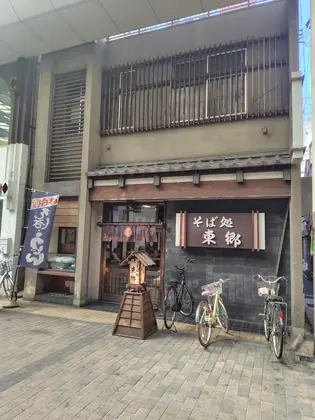
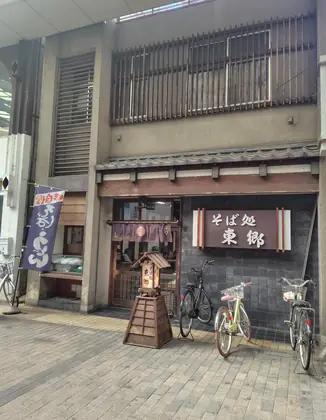
前橋ぶらり旅：写真の一言を本人の直した文に差し替える（No.044 のナンバーのぼかしも反映）

diff --git a/tabi/maebashi/index.html b/tabi/maebashi/index.html
@@ -907,7 +907,7 @@ details:nth-of-type(3n)   > summary::after{animation-delay:-2.7s}
   <div class="card" id="p2">
     <h4><span class="num">2</span>白井屋ホテル <span class="ruby">しろいやホテル</span> <span class="tier t1">● 公式で確認</span></h4>
     <p class="body">アーツ前橋から歩いて2分ほどのホテルです。ラウンジ（the LOUNGE）では、<b>芸術祭の期間のランチが「赤城牛カレーライス」か「白井屋バーガー」の2品</b>になっていて、事前の予約がすすめられています。<br>ミロコマチコ《空気に根をおろす》の<b>アートイルミネーション</b>が、9/19〜2027/1/12で出ています。</p>
-    <!--写真:始--><div class="shots"><p class="shhd"><span>歩いて撮った写真</span><span>2026/10/18</span></p><div class="row" role="group" aria-label="歩いて撮った写真"><figure style="--r:0.750"><button type="button" class="ph" data-l="img/machi/l/p067.webp" aria-label="写真を大きく見る"><img src="img/machi/s/p067.webp" width="315" height="420" loading="lazy" decoding="async" alt="緑におおわれた白井屋ホテルの棟と、手前の階段"></button><figcaption>階段の上まで、緑が続くホテルの建物</figcaption></figure></div></div>
+    <!--写真:始--><div class="shots"><p class="shhd"><span>歩いて撮った写真</span><span>2026/10/18</span></p><div class="row" role="group" aria-label="歩いて撮った写真"><figure style="--r:0.750"><button type="button" class="ph" data-l="img/machi/l/p067.webp" aria-label="写真を大きく見る"><img src="img/machi/s/p067.webp" width="315" height="420" loading="lazy" decoding="async" alt="緑におおわれた白井屋ホテルの棟と、手前の階段"></button><figcaption>モダンなデザインから、趣のあるたたずまいまで</figcaption></figure></div></div>
     <!--写真:終--><dl class="dl">
       <div><dt>ランチ</dt><dd>11:30〜14:30（LO 14:00）。芸術祭の期間は上の2品。<b>水曜は、10/14と12/2を除いてランチなし</b>（ティー 14:30〜17:00のみ）</dd></div>
       <div><dt>営業</dt><dd>年中無休（ホテル公式のラウンジのページ）</dd></div>
@@ -920,7 +920,7 @@ details:nth-of-type(3n)   > summary::after{animation-delay:-2.7s}
   <div class="card" id="p3">
     <h4><span class="num">3</span>中央通り商店街 <span class="ruby">ちゅうおうどおりしょうてんがい</span> <span class="tier t2">○ 掲載のみ確認</span></h4>
     <p class="body">前橋の中心商店街の通りのひとつです。全長約330mの<b>全蓋式のアーケード</b>に、飲食店、衣料品店、本屋、文具店などが並びます。100年以上続く老舗と新しい店が混ざっていて、歩くだけでも楽しい、レトロな通り。<b>雨の日でも、傘なしで歩けます</b>。映画やドラマなどの数多くの作品に、ロケ地として登場します（観光協会の紹介）。<br><b class="warn" id="suzuran-ended" hidden>※ スズラン前橋店は、2026年11月30日で営業を終了しました。</b></p>
-    <!--写真:始--><div class="shots"><p class="shhd"><span>歩いて撮った写真</span><span>2026/10/18</span></p><div class="row" role="group" aria-label="歩いて撮った写真"><figure style="--r:0.864"><button type="button" class="ph" data-l="img/machi/l/p007.webp" aria-label="写真を大きく見る"><img src="img/machi/s/p007.webp" width="363" height="420" loading="lazy" decoding="async" alt="中央通りの入口あたり。正面にスズランの看板、右に赤いひさしの店"></button><figcaption>通りの入口。正面にスズランの看板が見えます</figcaption></figure><figure style="--r:0.750"><button type="button" class="ph" data-l="img/machi/l/p003.webp" aria-label="写真を大きく見る"><img src="img/machi/s/p003.webp" width="315" height="420" loading="lazy" decoding="async" alt="ガラスの屋根のアーケード。奥へ長く続く通りを、橙色の服の人が歩いていく"></button><figcaption>ガラスの天井から、光が通りに落ちます</figcaption></figure><figure style="--r:1.333"><button type="button" class="ph" data-l="img/machi/l/p013.webp" aria-label="写真を大きく見る"><img src="img/machi/s/p013.webp" width="560" height="420" loading="lazy" decoding="async" alt="着物を扱う店の店先。招き猫の像と、ポスターで埋まった丸いショーウィンドウ"></button><figcaption>店先に招き猫。通りかかると、つい足が止まります</figcaption></figure><figure style="--r:0.750"><button type="button" class="ph" data-l="img/machi/l/p017.webp" aria-label="写真を大きく見る"><img src="img/machi/s/p017.webp" width="315" height="420" loading="lazy" decoding="async" alt="そば処の店先。提灯と、並んだ3台の自転車"></button><figcaption>そば屋の店先に、自転車が3台。ふだんの昼どきです</figcaption></figure><figure style="--r:1.333"><button type="button" class="ph" data-l="img/machi/l/p029.webp" aria-label="写真を大きく見る"><img src="img/machi/s/p029.webp" width="560" height="420" loading="lazy" decoding="async" alt="紫の暖簾に「香」の字がある店"></button><figcaption>暖簾の「香」の一字が、よく目立ちます</figcaption></figure></div><details class="more"><summary>ほかの写真も見る（10枚）</summary><div class="inner"><div class="grid"><figure style="--r:1.333"><button type="button" class="ph" data-l="img/machi/l/p011.webp" aria-label="写真を大きく見る"><img src="img/machi/s/p011.webp" width="560" height="420" loading="lazy" decoding="async" alt="アーケードの中を歩く人たちと、両側に並ぶ店"></button><figcaption>古い店も新しい店も、同じ通りに並びます</figcaption></figure><figure style="--r:0.614"><button type="button" class="ph" data-l="img/machi/l/p027.webp" aria-label="写真を大きく見る"><img src="img/machi/s/p027.webp" width="258" height="420" loading="lazy" decoding="async" alt="店先に置かれた、食品サンプルのガラスケース"></button><figcaption>食品サンプルのケース。見ているだけで楽しい</figcaption></figure><figure style="--r:1.281"><button type="button" class="ph" data-l="img/machi/l/p031.webp" aria-label="写真を大きく見る"><img src="img/machi/s/p031.webp" width="538" height="420" loading="lazy" decoding="async" alt="角にある店。軒に提灯が並んでいる"></button><figcaption>角の店に、提灯がずらり</figcaption></figure><figure style="--r:1.450"><button type="button" class="ph" data-l="img/machi/l/p087.webp" aria-label="写真を大きく見る"><img src="img/machi/s/p087.webp" width="609" height="420" loading="lazy" decoding="async" alt="交差点の角に建つ、かにの看板のある大きな建物"></button><figcaption>大通りの角に、かにの看板の大きな建物</figcaption></figure><figure style="--r:0.750"><button type="button" class="ph" data-l="img/machi/l/p096.webp" aria-label="写真を大きく見る"><img src="img/machi/s/p096.webp" width="315" height="420" loading="lazy" decoding="async" alt="ビルの前に置かれた、大きな手の形の彫刻"></button><figcaption>通りの角に、大きな手の彫刻</figcaption></figure><figure style="--r:0.750"><button type="button" class="ph" data-l="img/machi/l/p103.webp" aria-label="写真を大きく見る"><img src="img/machi/s/p103.webp" width="315" height="420" loading="lazy" decoding="async" alt="金色の丸い屋根のアーケード。奥へまっすぐ続き、人が歩いている"></button><figcaption>近くには、別の古いアーケードも。金色の丸い屋根が奥まで続きます</figcaption></figure><figure style="--r:1.333"><button type="button" class="ph" data-l="img/machi/l/p115.webp" aria-label="写真を大きく見る"><img src="img/machi/s/p115.webp" width="560" height="420" loading="lazy" decoding="async" alt="シャッターいっぱいに描かれた、カラフルな絵"></button><figcaption>シャッターいっぱいの絵。通りがギャラリーのようです</figcaption></figure><figure style="--r:0.750"><button type="button" class="ph" data-l="img/machi/l/p163.webp" aria-label="写真を大きく見る"><img src="img/machi/s/p163.webp" width="315" height="420" loading="lazy" decoding="async" alt="れんが造りの建物の入口。階段が花の絵で塗られている"></button><figcaption>階段が花畑のように塗られたミニギャラリー</figcaption></figure><figure style="--r:0.750"><button type="button" class="ph" data-l="img/machi/l/p164.webp" aria-label="写真を大きく見る"><img src="img/machi/s/p164.webp" width="315" height="420" loading="lazy" decoding="async" alt="ガラス戸の脇に置かれた、招き猫の姿をした像"></button><figcaption>招き猫の姿の像が、入口に座っています</figcaption></figure><figure style="--r:1.333"><button type="button" class="ph" data-l="img/machi/l/p167.webp" aria-label="写真を大きく見る"><img src="img/machi/s/p167.webp" width="560" height="420" loading="lazy" decoding="async" alt="木の壁と植木のある、カフェの軒先"></button><figcaption>木の壁と植木の、気持ちのいい軒先</figcaption></figure></div></div></details></div>
+    <!--写真:始--><div class="shots"><p class="shhd"><span>歩いて撮った写真</span><span>2026/10/18</span></p><div class="row" role="group" aria-label="歩いて撮った写真"><figure style="--r:0.864"><button type="button" class="ph" data-l="img/machi/l/p007.webp" aria-label="写真を大きく見る"><img src="img/machi/s/p007.webp" width="363" height="420" loading="lazy" decoding="async" alt="中央通りの入口あたり。正面にスズランの看板、右に赤いひさしの店"></button><figcaption>アーケードをそれた横道も素敵な通りが続く</figcaption></figure><figure style="--r:0.750"><button type="button" class="ph" data-l="img/machi/l/p003.webp" aria-label="写真を大きく見る"><img src="img/machi/s/p003.webp" width="315" height="420" loading="lazy" decoding="async" alt="ガラスの屋根のアーケード。奥へ長く続く通りを、橙色の服の人が歩いていく"></button><figcaption>300メートル以上続くガラスの天井から、光が通りに柔らかく降り注ぐ</figcaption></figure><figure style="--r:1.952"><button type="button" class="ph" data-l="img/machi/l/p013.webp" aria-label="写真を大きく見る"><img src="img/machi/s/p013.webp" width="820" height="420" loading="lazy" decoding="async" alt="着物を扱う店の店先。招き猫の像と、ポスターで埋まった丸いショーウィンドウ"></button><figcaption>明治8年創業、150年以上の歴史ある老舗呉服店</figcaption></figure><figure style="--r:0.776"><button type="button" class="ph" data-l="img/machi/l/p017.webp" aria-label="写真を大きく見る"><img src="img/machi/s/p017.webp" width="326" height="420" loading="lazy" decoding="async" alt="そば処の店先。提灯と、並んだ3台の自転車"></button><figcaption>地元の方も気軽に食べにくるそば屋</figcaption></figure><figure style="--r:0.895"><button type="button" class="ph" data-l="img/machi/l/p029.webp" aria-label="写真を大きく見る"><img src="img/machi/s/p029.webp" width="376" height="420" loading="lazy" decoding="async" alt="紫の暖簾に「香」の字がある店"></button><figcaption>お香の専門店で癒しを探すのもおすすめ</figcaption></figure></div><details class="more"><summary>ほかの写真も見る（10枚）</summary><div class="inner"><div class="grid"><figure style="--r:1.333"><button type="button" class="ph" data-l="img/machi/l/p011.webp" aria-label="写真を大きく見る"><img src="img/machi/s/p011.webp" width="560" height="420" loading="lazy" decoding="async" alt="アーケードの中を歩く人たちと、両側に並ぶ店"></button><figcaption>新旧入り混じった、様々な商店を見て回るのがアーケード商店街の醍醐味</figcaption></figure><figure style="--r:0.726"><button type="button" class="ph" data-l="img/machi/l/p027.webp" aria-label="写真を大きく見る"><img src="img/machi/s/p027.webp" width="305" height="420" loading="lazy" decoding="async" alt="店先に置かれた、食品サンプルのガラスケース"></button><figcaption>レトロ感漂う懐かしき商店街のシンボル</figcaption></figure><figure style="--r:1.329"><button type="button" class="ph" data-l="img/machi/l/p031.webp" aria-label="写真を大きく見る"><img src="img/machi/s/p031.webp" width="558" height="420" loading="lazy" decoding="async" alt="角にある店。軒に提灯が並んでいる"></button><figcaption>夜についつい立ち寄ってしまいそうな提灯がずらり</figcaption></figure><figure style="--r:1.450"><button type="button" class="ph" data-l="img/machi/l/p087.webp" aria-label="写真を大きく見る"><img src="img/machi/s/p087.webp" width="609" height="420" loading="lazy" decoding="async" alt="交差点の角に建つ、かにの看板のある大きな建物"></button><figcaption>大通りの角に、目印になる看板カニ</figcaption></figure><figure style="--r:0.750"><button type="button" class="ph" data-l="img/machi/l/p096.webp" aria-label="写真を大きく見る"><img src="img/machi/s/p096.webp" width="315" height="420" loading="lazy" decoding="async" alt="ビルの前に置かれた、大きな手の形の彫刻"></button><figcaption>通称「グーチョキパービル」と呼ばれる商業ビル「HOWZE（ハウゼ）ビル」の彫刻</figcaption></figure><figure style="--r:0.750"><button type="button" class="ph" data-l="img/machi/l/p103.webp" aria-label="写真を大きく見る"><img src="img/machi/s/p103.webp" width="315" height="420" loading="lazy" decoding="async" alt="金色の丸い屋根のアーケード。奥へまっすぐ続き、人が歩いている"></button><figcaption>オリオン通りのアーケードも味わい深い</figcaption></figure><figure style="--r:1.333"><button type="button" class="ph" data-l="img/machi/l/p115.webp" aria-label="写真を大きく見る"><img src="img/machi/s/p115.webp" width="560" height="420" loading="lazy" decoding="async" alt="シャッターいっぱいに描かれた、カラフルな絵"></button><figcaption>芸術祭を盛り上げるシャッターいっぱいのギャラリー</figcaption></figure><figure style="--r:0.750"><button type="button" class="ph" data-l="img/machi/l/p163.webp" aria-label="写真を大きく見る"><img src="img/machi/s/p163.webp" width="315" height="420" loading="lazy" decoding="async" alt="れんが造りの建物の入口。階段が花の絵で塗られている"></button><figcaption>前橋市まちづくり公社の入る建物</figcaption></figure><figure style="--r:0.750"><button type="button" class="ph" data-l="img/machi/l/p164.webp" aria-label="写真を大きく見る"><img src="img/machi/s/p164.webp" width="315" height="420" loading="lazy" decoding="async" alt="ガラス戸の脇に置かれた、招き猫の姿をした像"></button><figcaption>2017年6月に某テレビ番組で設置された招き猫　貴重な録音音声が聴けるらしい</figcaption></figure><figure style="--r:1.617"><button type="button" class="ph" data-l="img/machi/l/p167.webp" aria-label="写真を大きく見る"><img src="img/machi/s/p167.webp" width="679" height="420" loading="lazy" decoding="async" alt="木の壁と植木のある、カフェの軒先"></button><figcaption>ちょっと立ち寄りたくなる、木の壁や植木のある軒先</figcaption></figure></div></div></details></div>
     <!--写真:終--><dl class="dl">
       <div><dt>営業</dt><dd>お店ごとにまちまち（通りとしての営業時間・休みの記載はありません）。個々の店の営業日は、行く前に確かめてください</dd></div>
       <div><dt>行き方</dt><dd>アーツ前橋から約350m ／ <b>徒歩 4分</b>／白井屋から約300m ／ <b>徒歩 4分</b></dd></div>
@@ -935,7 +935,7 @@ details:nth-of-type(3n)   > summary::after{animation-delay:-2.7s}
   <div class="card" id="p4">
     <h4><span class="num">4</span>馬場川通り <span class="ruby">ばばがわどおり</span> <span class="tier t2">○ 掲載のみ確認</span></h4>
     <p class="body">馬場川が流れる通りです。川の名は、江戸時代にこのあたりに馬の調練場があり、そこを流れていた川だったことに由来する、と紹介されています。2021年に始まった「馬場川通りアーバンデザインプロジェクト」で、車道と歩道の段差がなくなり、通り全体がフラットなレンガ舗装になりました。<b>約200mのデッキとベンチ</b>があり、歩きながら一休みできます。川沿いの馬場川遊歩道公園は、街のオアシスとして親しまれています（観光協会の紹介）。</p>
-    <!--写真:始--><div class="shots"><p class="shhd"><span>歩いて撮った写真</span><span>2026/10/18</span></p><div class="row" role="group" aria-label="歩いて撮った写真"><figure style="--r:1.333"><button type="button" class="ph" data-l="img/machi/l/p038.webp" aria-label="写真を大きく見る"><img src="img/machi/s/p038.webp" width="560" height="420" loading="lazy" decoding="async" alt="レンガ敷きの通りと、右に木の小屋。青空"></button><figcaption>赤茶のレンガの道と、木の小屋</figcaption></figure><figure style="--r:1.333"><button type="button" class="ph" data-l="img/machi/l/p044.webp" aria-label="写真を大きく見る"><img src="img/machi/s/p044.webp" width="560" height="420" loading="lazy" decoding="async" alt="並木の下の歩道に、パラソルと出店が出ている"></button><figcaption>並木の下に、小さな出店</figcaption></figure><figure style="--r:1.333"><button type="button" class="ph" data-l="img/machi/l/p049.webp" aria-label="写真を大きく見る"><img src="img/machi/s/p049.webp" width="560" height="420" loading="lazy" decoding="async" alt="川べりに建つ、青いひさしの建物と古い家"></button><figcaption>川ぞいに、古い家と青いひさしの建物</figcaption></figure><figure style="--r:1.333"><button type="button" class="ph" data-l="img/machi/l/p057.webp" aria-label="写真を大きく見る"><img src="img/machi/s/p057.webp" width="560" height="420" loading="lazy" decoding="async" alt="黄色い壁の角の店と、赤いひさし"></button><figcaption>黄色い壁の角の店。赤いひさしが映えます</figcaption></figure></div></div>
+    <!--写真:始--><div class="shots"><p class="shhd"><span>歩いて撮った写真</span><span>2026/10/18</span></p><div class="row" role="group" aria-label="歩いて撮った写真"><figure style="--r:1.333"><button type="button" class="ph" data-l="img/machi/l/p038.webp" aria-label="写真を大きく見る"><img src="img/machi/s/p038.webp" width="560" height="420" loading="lazy" decoding="async" alt="レンガ敷きの通りと、右に木の小屋。青空"></button><figcaption>赤茶のレンガの道の入り口に、おしゃれな木製デザインのトイレ</figcaption></figure><figure style="--r:1.333"><button type="button" class="ph" data-l="img/machi/l/p044.webp" aria-label="写真を大きく見る"><img src="img/machi/s/p044.webp" width="560" height="420" loading="lazy" decoding="async" alt="並木の下の歩道に、パラソルと出店が出ている"></button><figcaption>並木の下に、小さな出店が並びます</figcaption></figure><figure style="--r:1.333"><button type="button" class="ph" data-l="img/machi/l/p049.webp" aria-label="写真を大きく見る"><img src="img/machi/s/p049.webp" width="560" height="420" loading="lazy" decoding="async" alt="川べりに建つ、青いひさしの建物と古い家"></button><figcaption>川ぞいにある、ベンチやテーブルで一休みしながら</figcaption></figure><figure style="--r:1.333"><button type="button" class="ph" data-l="img/machi/l/p057.webp" aria-label="写真を大きく見る"><img src="img/machi/s/p057.webp" width="560" height="420" loading="lazy" decoding="async" alt="黄色い壁の角の店と、赤いひさし"></button><figcaption>個性的なお店があちらこちらに</figcaption></figure></div></div>
     <!--写真:終--><dl class="dl">
       <div><dt>行き方</dt><dd>アーツ前橋から約120m ／ <b>徒歩 2分</b>／白井屋から約250m ／ <b>徒歩 3分</b></dd></div>
       <div><dt>まわり</dt><dd>カフェや飲食店が多いあたりです（観光協会の周辺情報。個別の店は、この案内では確かめていません）</dd></div>
@@ -946,7 +946,7 @@ details:nth-of-type(3n)   > summary::after{animation-delay:-2.7s}
   <div class="card" id="p5">
     <h4><span class="num">5</span>弁天通り商店街 <span class="ruby">べんてんどおり</span> <span class="tier t2">○ 掲載のみ確認</span></h4>
     <p class="body">中心商店街の北の端。通りの真ん中にある大蓮寺の門前町として栄え、<b>通りが大きく曲がっている</b>のが特徴です。大蓮寺にあった弁天池を避けて作ったため、と観光協会が紹介しています。昭和43年にアーケードが付き、毎月3日はフリーマーケット「弁天ワッセ」が開かれます。</p>
-    <!--写真:始--><div class="shots"><p class="shhd"><span>歩いて撮った写真</span><span>2026/10/18</span></p><div class="row" role="group" aria-label="歩いて撮った写真"><figure style="--r:1.755"><button type="button" class="ph" data-l="img/machi/l/p124.webp" aria-label="写真を大きく見る"><img src="img/machi/s/p124.webp" width="737" height="420" loading="lazy" decoding="async" alt="商店街の入口のアーチと、手前の横断歩道"></button><figcaption>アーチの「弁天通商店街」が目印</figcaption></figure><figure style="--r:1.333"><button type="button" class="ph" data-l="img/machi/l/p135.webp" aria-label="写真を大きく見る"><img src="img/machi/s/p135.webp" width="560" height="420" loading="lazy" decoding="async" alt="手芸用品の店の店先"></button><figcaption>ボタンや糸の店。昔ながらの手芸店です</figcaption></figure><figure style="--r:1.333"><button type="button" class="ph" data-l="img/machi/l/p141.webp" aria-label="写真を大きく見る"><img src="img/machi/s/p141.webp" width="560" height="420" loading="lazy" decoding="async" alt="アーケードの途中にある、お寺の門"></button><figcaption>通りの途中に、お寺の門</figcaption></figure><figure style="--r:0.750"><button type="button" class="ph" data-l="img/machi/l/p144.webp" aria-label="写真を大きく見る"><img src="img/machi/s/p144.webp" width="315" height="420" loading="lazy" decoding="async" alt="赤い帽子と前掛けをしたお地蔵さん"></button><figcaption>赤い帽子のお地蔵さんが並びます</figcaption></figure><figure style="--r:0.750"><button type="button" class="ph" data-l="img/machi/l/p129.webp" aria-label="写真を大きく見る"><img src="img/machi/s/p129.webp" width="315" height="420" loading="lazy" decoding="async" alt="おいも専門店の店先と看板"></button><figcaption>おいも専門店。通りがかりに寄り道したくなります</figcaption></figure></div><details class="more"><summary>ほかの写真も見る（2枚）</summary><div class="inner"><div class="grid"><figure style="--r:1.333"><button type="button" class="ph" data-l="img/machi/l/p149.webp" aria-label="写真を大きく見る"><img src="img/machi/s/p149.webp" width="560" height="420" loading="lazy" decoding="async" alt="角に建つ洋食店と、お持ち帰りののぼり"></button><figcaption>角に建つ洋食店。看板がかわいい</figcaption></figure><figure style="--r:1.333"><button type="button" class="ph" data-l="img/machi/l/p152.webp" aria-label="写真を大きく見る"><img src="img/machi/s/p152.webp" width="560" height="420" loading="lazy" decoding="async" alt="金物店の店先に並ぶ、鍋や緑のじょうろ"></button><figcaption>鍋やじょうろが並ぶ、金物店の店先</figcaption></figure></div></div></details></div>
+    <!--写真:始--><div class="shots"><p class="shhd"><span>歩いて撮った写真</span><span>2026/10/18</span></p><div class="row" role="group" aria-label="歩いて撮った写真"><figure style="--r:1.755"><button type="button" class="ph" data-l="img/machi/l/p124.webp" aria-label="写真を大きく見る"><img src="img/machi/s/p124.webp" width="737" height="420" loading="lazy" decoding="async" alt="商店街の入口のアーチと、手前の横断歩道"></button><figcaption>アーチの「弁天通商店街」が目印</figcaption></figure><figure style="--r:1.333"><button type="button" class="ph" data-l="img/machi/l/p135.webp" aria-label="写真を大きく見る"><img src="img/machi/s/p135.webp" width="560" height="420" loading="lazy" decoding="async" alt="手芸用品の店の店先"></button><figcaption>昔ながらの素朴な手芸店</figcaption></figure><figure style="--r:1.333"><button type="button" class="ph" data-l="img/machi/l/p141.webp" aria-label="写真を大きく見る"><img src="img/machi/s/p141.webp" width="560" height="420" loading="lazy" decoding="async" alt="アーケードの途中にある、お寺の門"></button><figcaption>商店街の中でもひと際雰囲気の変わる入口</figcaption></figure><figure style="--r:0.750"><button type="button" class="ph" data-l="img/machi/l/p144.webp" aria-label="写真を大きく見る"><img src="img/machi/s/p144.webp" width="315" height="420" loading="lazy" decoding="async" alt="赤い帽子と前掛けをしたお地蔵さん"></button><figcaption>旅の無事を祈って是非お地蔵さんに会いに来ては</figcaption></figure><figure style="--r:0.750"><button type="button" class="ph" data-l="img/machi/l/p129.webp" aria-label="写真を大きく見る"><img src="img/machi/s/p129.webp" width="315" height="420" loading="lazy" decoding="async" alt="おいも専門店の店先と看板"></button><figcaption>おいも専門店。通りがかりに寄り道したくなります</figcaption></figure></div><details class="more"><summary>ほかの写真も見る（2枚）</summary><div class="inner"><div class="grid"><figure style="--r:1.333"><button type="button" class="ph" data-l="img/machi/l/p149.webp" aria-label="写真を大きく見る"><img src="img/machi/s/p149.webp" width="560" height="420" loading="lazy" decoding="async" alt="角に建つ洋食店と、お持ち帰りののぼり"></button><figcaption>角に建つ洋食店。看板がかわいい。</figcaption></figure><figure style="--r:1.333"><button type="button" class="ph" data-l="img/machi/l/p152.webp" aria-label="写真を大きく見る"><img src="img/machi/s/p152.webp" width="560" height="420" loading="lazy" decoding="async" alt="金物店の店先に並ぶ、鍋や緑のじょうろ"></button><figcaption>鍋やじょうろが並ぶ、昔ながらの金物店の店先</figcaption></figure></div></div></details></div>
     <!--写真:終--><dl class="dl">
       <div><dt>営業</dt><dd>お店ごとにまちまち（商店街の公式サイトは見つかっていません）</dd></div>
       <div><dt>行き方</dt><dd>文学館から徒歩約3分</dd></div>
